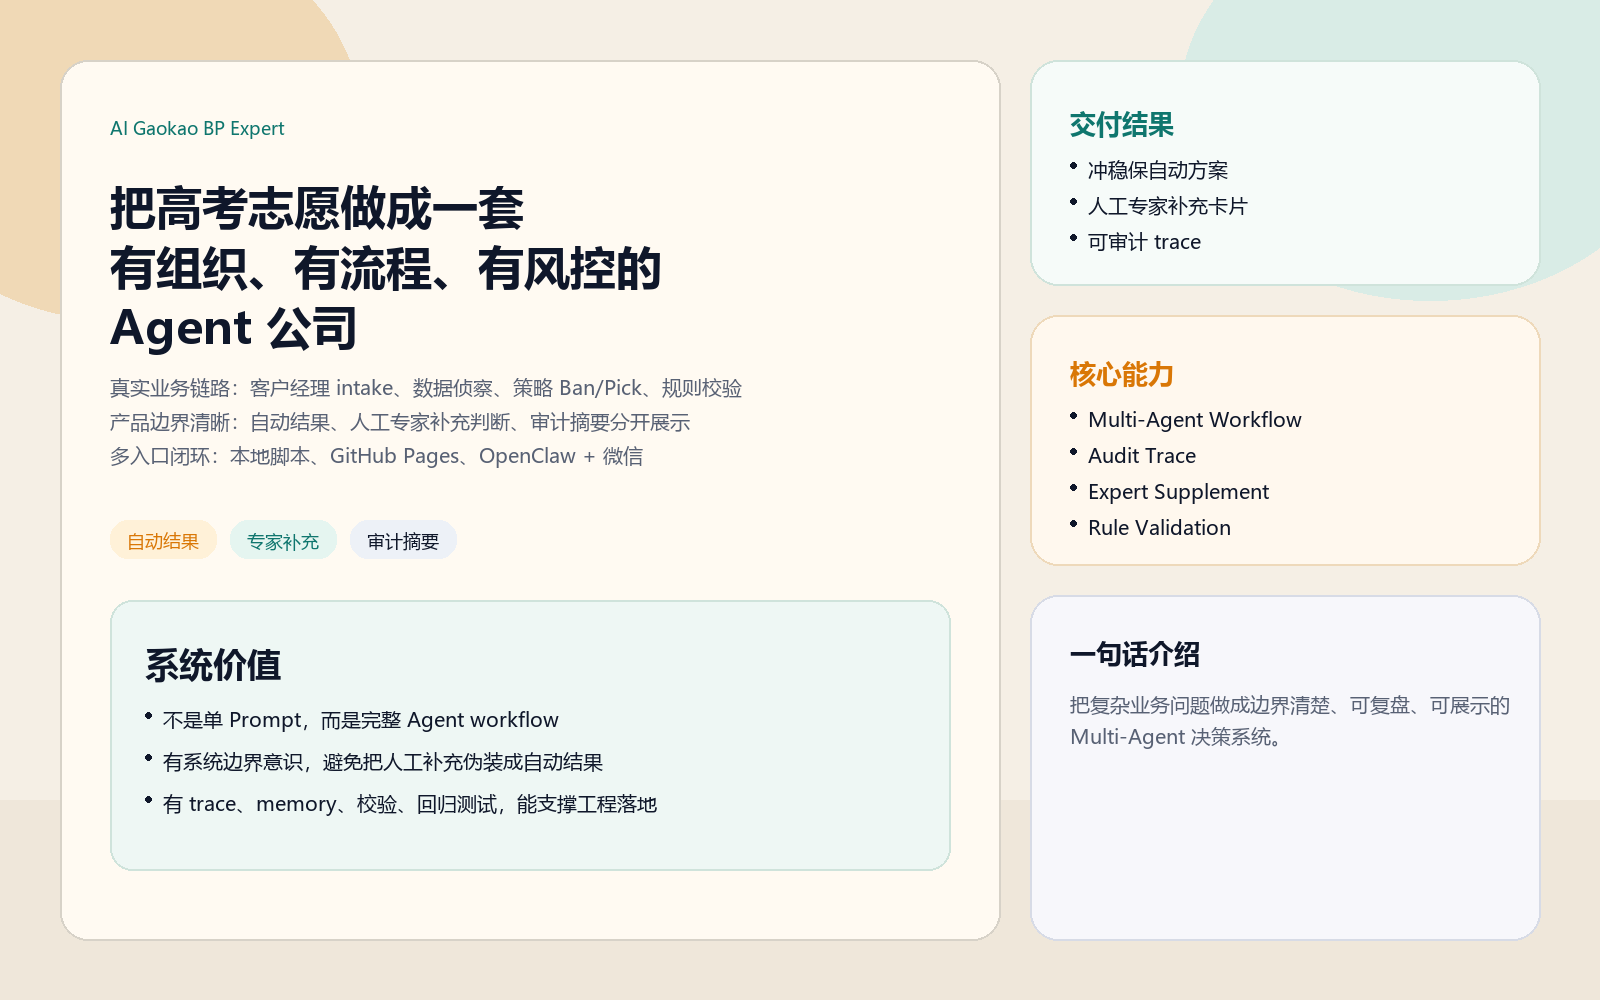
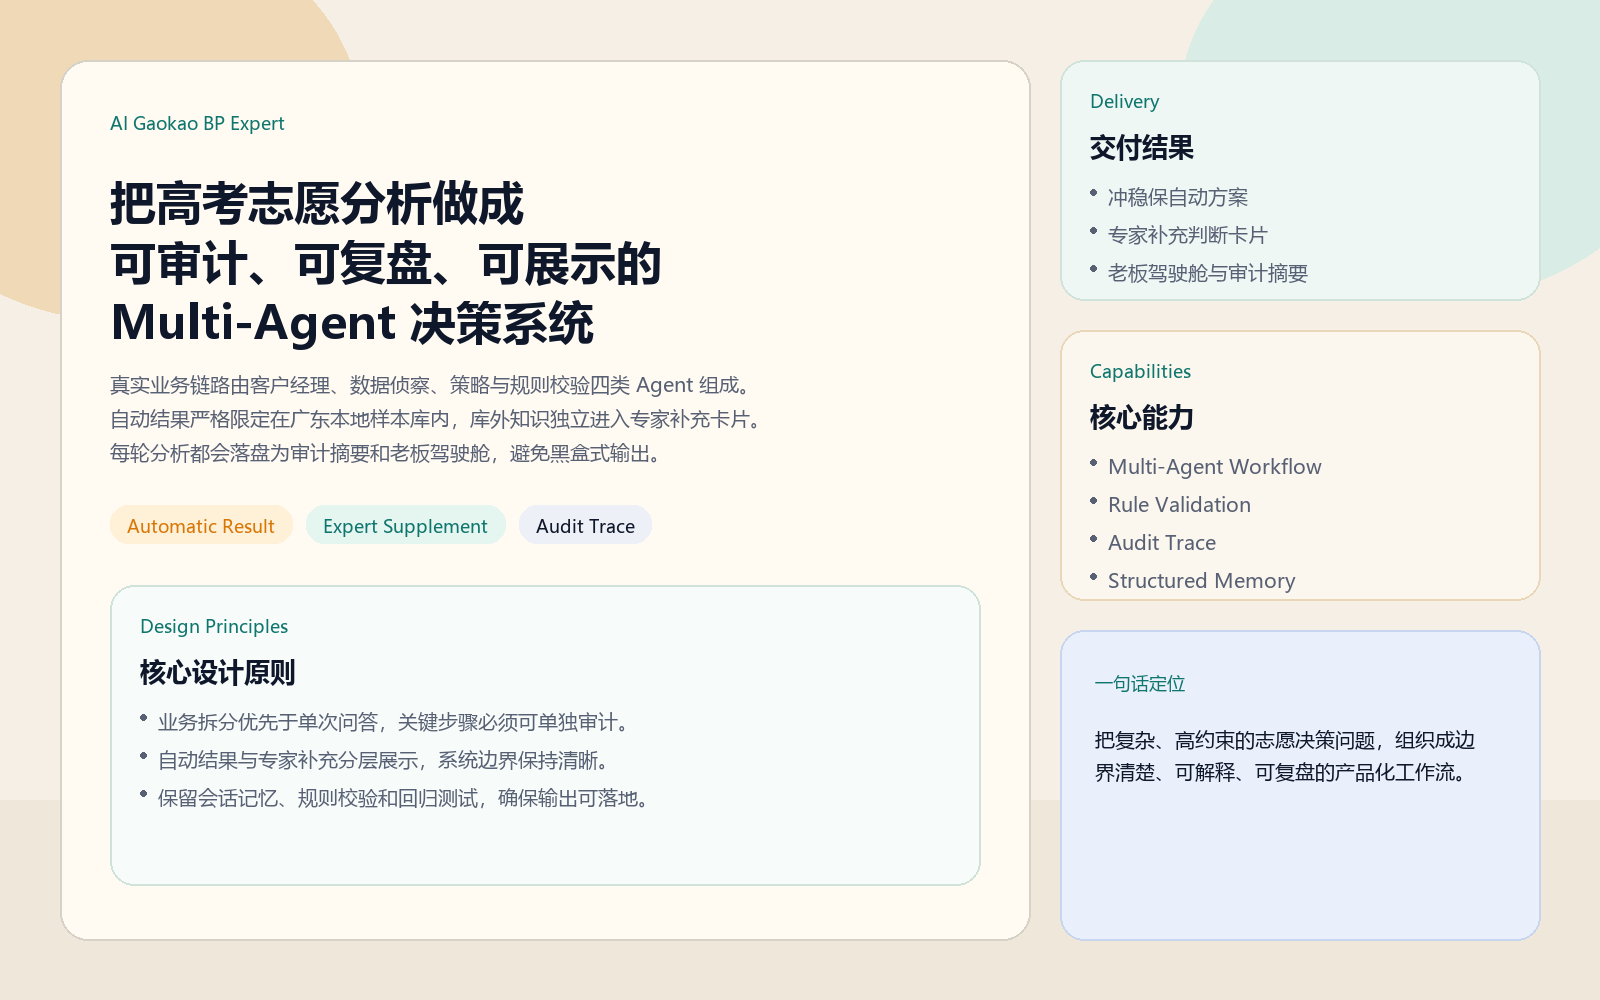
Polish showcase screenshots

diff --git a/scripts/generate_showcase_images.py b/scripts/generate_showcase_images.py
@@ -17,6 +17,10 @@ CARD = "#fffdf8"
 MUTED = "#586174"
 LINE = "#d7d2c8"
 SOFT = "#eef7f4"
+BLUE = "#e9f0fb"
+BLUE_LINE = "#c8d5ee"
+SAND = "#fbf6ee"
+SHADOW = "#e7e1d6"
 
 
 def load_font(size: int, bold: bool = False):
@@ -114,6 +118,20 @@ def pill(draw, xy, label, fill="#eef3f7", ink=INK):
     return x + w + 14
 
 
+def metric_block(draw, box, eyebrow, title, lines, fill="#fffaf2", outline=LINE):
+    x1, y1, x2, y2 = box
+    rounded(draw, box, radius=24, fill=fill, outline=outline)
+    text(draw, (x1 + 30, y1 + 28), eyebrow, SMALL, TEAL)
+    text(draw, (x1 + 30, y1 + 68), title, H3, INK)
+    draw_bullets(draw, (x1 + 30, y1 + 122), lines, BODY, MUTED, MUTED, x2 - x1 - 70, 12)
+
+
+def number_badge(draw, xy, label, fill="#fff1d8", ink=COPPER):
+    x, y = xy
+    rounded(draw, (x, y, x + 46, y + 46), radius=23, fill=fill, outline=fill, width=1)
+    text(draw, (x + 15, y + 8), label, H3, ink)
+
+
 def make_canvas():
     image = Image.new("RGB", (WIDTH, HEIGHT), BG)
     draw = ImageDraw.Draw(image)
@@ -131,135 +149,171 @@ def save(image: Image.Image, name: str):
 
 def overview():
     image, draw = make_canvas()
-    rounded(draw, (60, 60, 1000, 940), fill="#fffaf2")
-    rounded(draw, (1030, 60, 1540, 285), fill="#f6fbf9", outline="#cfe3db")
-    rounded(draw, (1030, 315, 1540, 565), fill="#fff8ee", outline="#eed9ba")
-    rounded(draw, (1030, 595, 1540, 940), fill="#f7f7fb", outline="#d7dbe6")
+    rounded(draw, (60, 60, 1030, 940), fill="#fffaf2")
+    rounded(draw, (1060, 60, 1540, 300), fill=SOFT, outline="#cfe3db")
+    rounded(draw, (1060, 330, 1540, 600), fill=SAND, outline="#ead7b8")
+    rounded(draw, (1060, 630, 1540, 940), fill=BLUE, outline=BLUE_LINE)
 
-    text(draw, (110, 115), "AI Gaokao BP Expert", SMALL, TEAL)
+    text(draw, (110, 110), "AI Gaokao BP Expert", SMALL, TEAL)
     title_lines = [
-        "把高考志愿做成一套",
-        "有组织、有流程、有风控的",
-        "Agent 公司",
+        "把高考志愿分析做成",
+        "可审计、可复盘、可展示的",
+        "Multi-Agent 决策系统",
     ]
-    y = draw_lines(draw, (110, 175), title_lines, TITLE, INK, 14)
-    y += 18
-    y = draw_wrapped_text(draw, (110, y), "真实业务链路：客户经理 intake、数据侦察、策略 Ban/Pick、规则校验", BODY, 820, MUTED, 10)
+    y = draw_lines(draw, (110, 170), title_lines, TITLE, INK, 14)
+    y += 20
+    y = draw_wrapped_text(draw, (110, y), "真实业务链路由客户经理、数据侦察、策略与规则校验四类 Agent 组成。", BODY, 830, MUTED, 10)
     y += 4
-    y = draw_wrapped_text(draw, (110, y), "产品边界清晰：自动结果、人工专家补充判断、审计摘要分开展示", BODY, 820, MUTED, 10)
+    y = draw_wrapped_text(draw, (110, y), "自动结果严格限定在广东本地样本库内，库外知识独立进入专家补充卡片。", BODY, 830, MUTED, 10)
     y += 4
-    y = draw_wrapped_text(draw, (110, y), "多入口闭环：本地脚本、GitHub Pages、OpenClaw + 微信", BODY, 820, MUTED, 10)
+    y = draw_wrapped_text(draw, (110, y), "每轮分析都会落盘为审计摘要和老板驾驶舱，避免黑盒式输出。", BODY, 830, MUTED, 10)
 
     x = 110
-    x = pill(draw, (x, 520), "自动结果", "#fff1d8", COPPER)
-    x = pill(draw, (x, 520), "专家补充", "#e5f5f0", TEAL)
-    pill(draw, (x, 520), "审计摘要", "#edf1f7", INK)
+    x = pill(draw, (x, 505), "Automatic Result", "#fff1d8", COPPER)
+    x = pill(draw, (x, 505), "Expert Supplement", "#e5f5f0", TEAL)
+    pill(draw, (x, 505), "Audit Trace", "#edf1f7", INK)
 
-    rounded(draw, (110, 600, 950, 870), radius=22, fill=SOFT, outline="#cfe3db")
-    text(draw, (145, 640), "系统价值", H2, INK)
-    draw_bullets(
+    metric_block(
         draw,
-        (145, 705),
+        (110, 585, 980, 885),
+        "Design Principles",
+        "核心设计原则",
         [
-            "不是单 Prompt，而是完整 Agent workflow",
-            "有系统边界意识，避免把人工补充伪装成自动结果",
-            "有 trace、memory、校验、回归测试，能支撑工程落地",
+            "业务拆分优先于单次问答，关键步骤必须可单独审计。",
+            "自动结果与专家补充分层展示，系统边界保持清晰。",
+            "保留会话记忆、规则校验和回归测试，确保输出可落地。",
         ],
-        BODY,
-        INK,
-        INK,
-        740,
-        16,
+        fill="#f7fbfa",
+        outline="#cfe3db",
     )
 
-    text(draw, (1070, 105), "交付结果", H3, TEAL)
-    draw_bullets(draw, (1070, 155), ["冲稳保自动方案", "人工专家补充卡片", "可审计 trace"], BODY, INK, INK, 360, 10)
-
-    text(draw, (1070, 355), "核心能力", H3, COPPER)
-    draw_bullets(draw, (1070, 405), ["Multi-Agent Workflow", "Audit Trace", "Expert Supplement", "Rule Validation"], BODY, INK, INK, 360, 10)
-
-    text(draw, (1070, 635), "一句话介绍", H3, INK)
-    draw_wrapped_text(draw, (1070, 690), "把复杂业务问题做成边界清楚、可复盘、可展示的 Multi-Agent 决策系统。", BODY, 360, MUTED, 12)
+    metric_block(
+        draw,
+        (1060, 60, 1540, 300),
+        "Delivery",
+        "交付结果",
+        ["冲稳保自动方案", "专家补充判断卡片", "老板驾驶舱与审计摘要"],
+        fill=SOFT,
+        outline="#cfe3db",
+    )
+    metric_block(
+        draw,
+        (1060, 330, 1540, 600),
+        "Capabilities",
+        "核心能力",
+        ["Multi-Agent Workflow", "Rule Validation", "Audit Trace", "Structured Memory"],
+        fill=SAND,
+        outline="#ead7b8",
+    )
+    rounded(draw, (1060, 630, 1540, 940), radius=24, fill=BLUE, outline=BLUE_LINE)
+    text(draw, (1095, 670), "一句话定位", SMALL, TEAL)
+    draw_wrapped_text(
+        draw,
+        (1095, 725),
+        "把复杂、高约束的志愿决策问题，组织成边界清楚、可解释、可复盘的产品化工作流。",
+        BODY,
+        390,
+        INK,
+        12,
+    )
     return save(image, "01-overview-hero.png")
 
 
 def command_center():
     image, draw = make_canvas()
-    rounded(draw, (55, 55, 530, 940), fill="#fffaf2")
-    rounded(draw, (565, 55, 1545, 940), fill="#fffdf9")
+    rounded(draw, (55, 55, 510, 940), fill="#fffaf2")
+    rounded(draw, (545, 55, 1545, 940), fill="#fffdf9")
 
     text(draw, (95, 105), "Command Center", H2, TEAL)
-    y = draw_wrapped_text(draw, (95, 165), "输入画像", BODY, 360, INK, 12)
-    y += 8
-    for line in [
-        "我是广东物理化学，排位5000，",
-        "普通工薪家庭，偏理学，",
-        "不想土木，不可接受出省",
-    ]:
-        y = draw_wrapped_text(draw, (95, y), line, BODY, 360, INK, 12)
+    rounded(draw, (90, 160, 475, 330), radius=22, fill="#ffffff", outline="#dad4c8")
+    text(draw, (120, 195), "输入画像", SMALL, TEAL)
+    draw_wrapped_text(
+        draw,
+        (120, 235),
+        "我是广东物理化学，排位5000，普通工薪家庭，偏理学，不想土木，不可接受出省。",
+        BODY,
+        300,
+        INK,
+        12,
+    )
 
-    rounded(draw, (90, 330, 495, 520), radius=20, fill="#f6fbf9", outline="#cfe3db")
-    text(draw, (120, 370), "核心能力", H3, INK)
+    rounded(draw, (90, 360, 475, 580), radius=22, fill="#f6fbf9", outline="#cfe3db")
+    text(draw, (120, 398), "Workflow Summary", SMALL, TEAL)
     draw_bullets(
         draw,
-        (120, 430),
-        ["自动冲稳保结果", "选科校验与风险拦截", "理学偏好权重修正", "省内优先识别"],
-        BODY,
-        MUTED,
-        MUTED,
-        320,
-        10,
-    )
-    x = 95
-    x = pill(draw, (x, 580), "运行业务链路", "#fff1d8", COPPER)
-    x = pill(draw, (x, 580), "老板驾驶舱", "#edf1f7", INK)
-    pill(draw, (95, 635), "给我看内部沟通记录", "#e5f5f0", TEAL)
-
-    text(draw, (605, 100), "自动结果", H2, INK)
-    rounded(draw, (600, 150, 1510, 420), radius=22, fill="#f6fbf9", outline="#cfe3db")
-    draw_lines(
-        draw,
-        (635, 190),
+        (120, 438),
         [
-            "客户经理：广东 / 物理类 / 物理+化学 / 省内优先 / 偏理学",
-            "数据侦察：冲 5 个，稳 14 个，保 18 个",
-            "策略：Ban 掉土木、建筑、心理学等高风险方向",
-            "规则校验：通过校验，输出自动冲稳保结果",
+            "自动生成冲稳保结果",
+            "执行选科校验与风险拦截",
+            "理学偏好与省内优先权重修正",
+            "支持老板驾驶舱和内部审计摘要",
         ],
         BODY,
         INK,
-        18,
+        INK,
+        300,
+        12,
     )
 
-    rounded(draw, (600, 455, 1510, 710), radius=22, fill="#fff8ee", outline="#eed9ba")
-    text(draw, (635, 495), "人工专家补充判断卡片", H3, COPPER)
+    x = 95
+    x = pill(draw, (x, 620), "运行业务链路", "#fff1d8", COPPER)
+    x = pill(draw, (x, 620), "老板驾驶舱", "#edf1f7", INK)
+    pill(draw, (95, 675), "查看审计摘要", "#e5f5f0", TEAL)
+
+    rounded(draw, (90, 760, 475, 900), radius=22, fill=SAND, outline="#ead7b8")
+    text(draw, (120, 798), "交互入口", SMALL, COPPER)
     draw_bullets(
         draw,
-        (635, 545),
+        (120, 838),
+        ["本地脚本", "静态展示页", "自然语言入口复用同一工作流"],
+        SMALL,
+        MUTED,
+        MUTED,
+        300,
+        10,
+    )
+
+    text(draw, (585, 100), "自动结果", H2, INK)
+    rounded(draw, (580, 150, 1510, 430), radius=22, fill="#f7fbfa", outline="#cfe3db")
+    number_badge(draw, (615, 190), "1")
+    text(draw, (680, 188), "画像结构化", H3, INK)
+    draw_wrapped_text(draw, (680, 226), "广东 / 物理类 / 物理+化学 / 省内优先 / 偏理学", BODY, 760, MUTED, 8)
+    number_badge(draw, (615, 286), "2")
+    text(draw, (680, 284), "候选池筛选", H3, INK)
+    draw_wrapped_text(draw, (680, 322), "数据侦察输出：冲 5 个，稳 14 个，保 18 个。", BODY, 760, MUTED, 8)
+    number_badge(draw, (1075, 190), "3")
+    text(draw, (1140, 188), "策略与校验", H3, INK)
+    draw_wrapped_text(draw, (1140, 226), "Ban 掉土木、建筑、心理学等高风险方向，规则校验通过。", BODY, 320, MUTED, 8)
+
+    rounded(draw, (580, 465, 1510, 700), radius=22, fill="#fff8ee", outline="#ead7b8")
+    text(draw, (615, 505), "专家补充判断卡片", H3, COPPER)
+    draw_bullets(
+        draw,
+        (615, 555),
         [
             "华南理工大学｜数学与应用数学",
             "中山大学｜数学与应用数学",
             "暨南大学｜化学",
-            "说明：仅做补充判断，不混入自动排序结果",
+            "仅做补充判断，不进入自动排序结果",
         ],
         BODY,
         INK,
         INK,
-        780,
+        820,
         14,
     )
 
-    rounded(draw, (600, 730, 1510, 935), radius=22, fill="#f7f7fb", outline="#d7dbe6")
-    text(draw, (635, 785), "产品边界", H3, INK)
+    rounded(draw, (580, 735, 1510, 935), radius=22, fill=BLUE, outline=BLUE_LINE)
+    text(draw, (615, 775), "边界声明", H3, INK)
     draw_bullets(
         draw,
-        (635, 830),
-        ["自动结果来自广东样本库", "库外知识单独进入补充卡片", "内部沟通记录只展示审计摘要"],
+        (615, 825),
+        ["自动结果来自广东样本库", "库外知识单独进入补充卡片", "内部沟通记录仅展示审计摘要"],
         BODY,
         MUTED,
         MUTED,
-        780,
-        10,
+        820,
+        12,
     )
     return save(image, "02-command-center.png")
 
@@ -276,8 +330,8 @@ def trace_boardroom():
         ("3", "数据侦察 Agent", "基于广东样本库筛出冲稳保候选池"),
         ("4", "策略 Agent", "完成 Ban/Pick，并写明理学偏好与数据边界"),
         ("5", "规则校验 Agent", "执行选科校验、拦截冲突并自动补位"),
-        ("6", "人工专家补充判断", "补充库外理学高平台专业卡片"),
-        ("7", "老板", "批准对外输出自动结果 + 补充卡片 + 审计摘要"),
+        ("6", "专家补充模块", "补充库外理学高平台专业卡片"),
+        ("7", "老板驾驶舱", "批准对外输出自动结果、补充卡片与审计摘要"),
     ]
     y = 165
     for idx, actor, summary in steps:
@@ -308,17 +362,16 @@ def trace_boardroom():
         14,
     )
 
-    rounded(draw, (940, 525, 1515, 920), radius=22, fill="#eef7f4", outline="#cfe3db")
-    text(draw, (970, 565), "为什么这版更能打 JD", H3, TEAL)
+    rounded(draw, (940, 525, 1515, 920), radius=22, fill=SOFT, outline="#cfe3db")
+    text(draw, (970, 565), "审计结论", H3, TEAL)
     draw_bullets(
         draw,
         (970, 620),
         [
-            "有 workflow，不是单 Prompt",
-            "有 system boundary，不装作全国实时库",
-            "有 traceability，能做复盘与解释",
-            "有 memory / routing / validation / fallback 意识",
-            "有 GitHub 展示页和微信入口，作品感更强",
+            "主链路由 intake、候选筛选、Ban/Pick 与规则校验组成。",
+            "自动结果与专家补充严格分层，不混写能力边界。",
+            "每轮分析保留时间线和驾驶舱摘要，支持复盘与解释。",
+            "系统包含记忆、路由、校验与回归测试，具备持续迭代基础。",
         ],
         BODY,
         INK,
